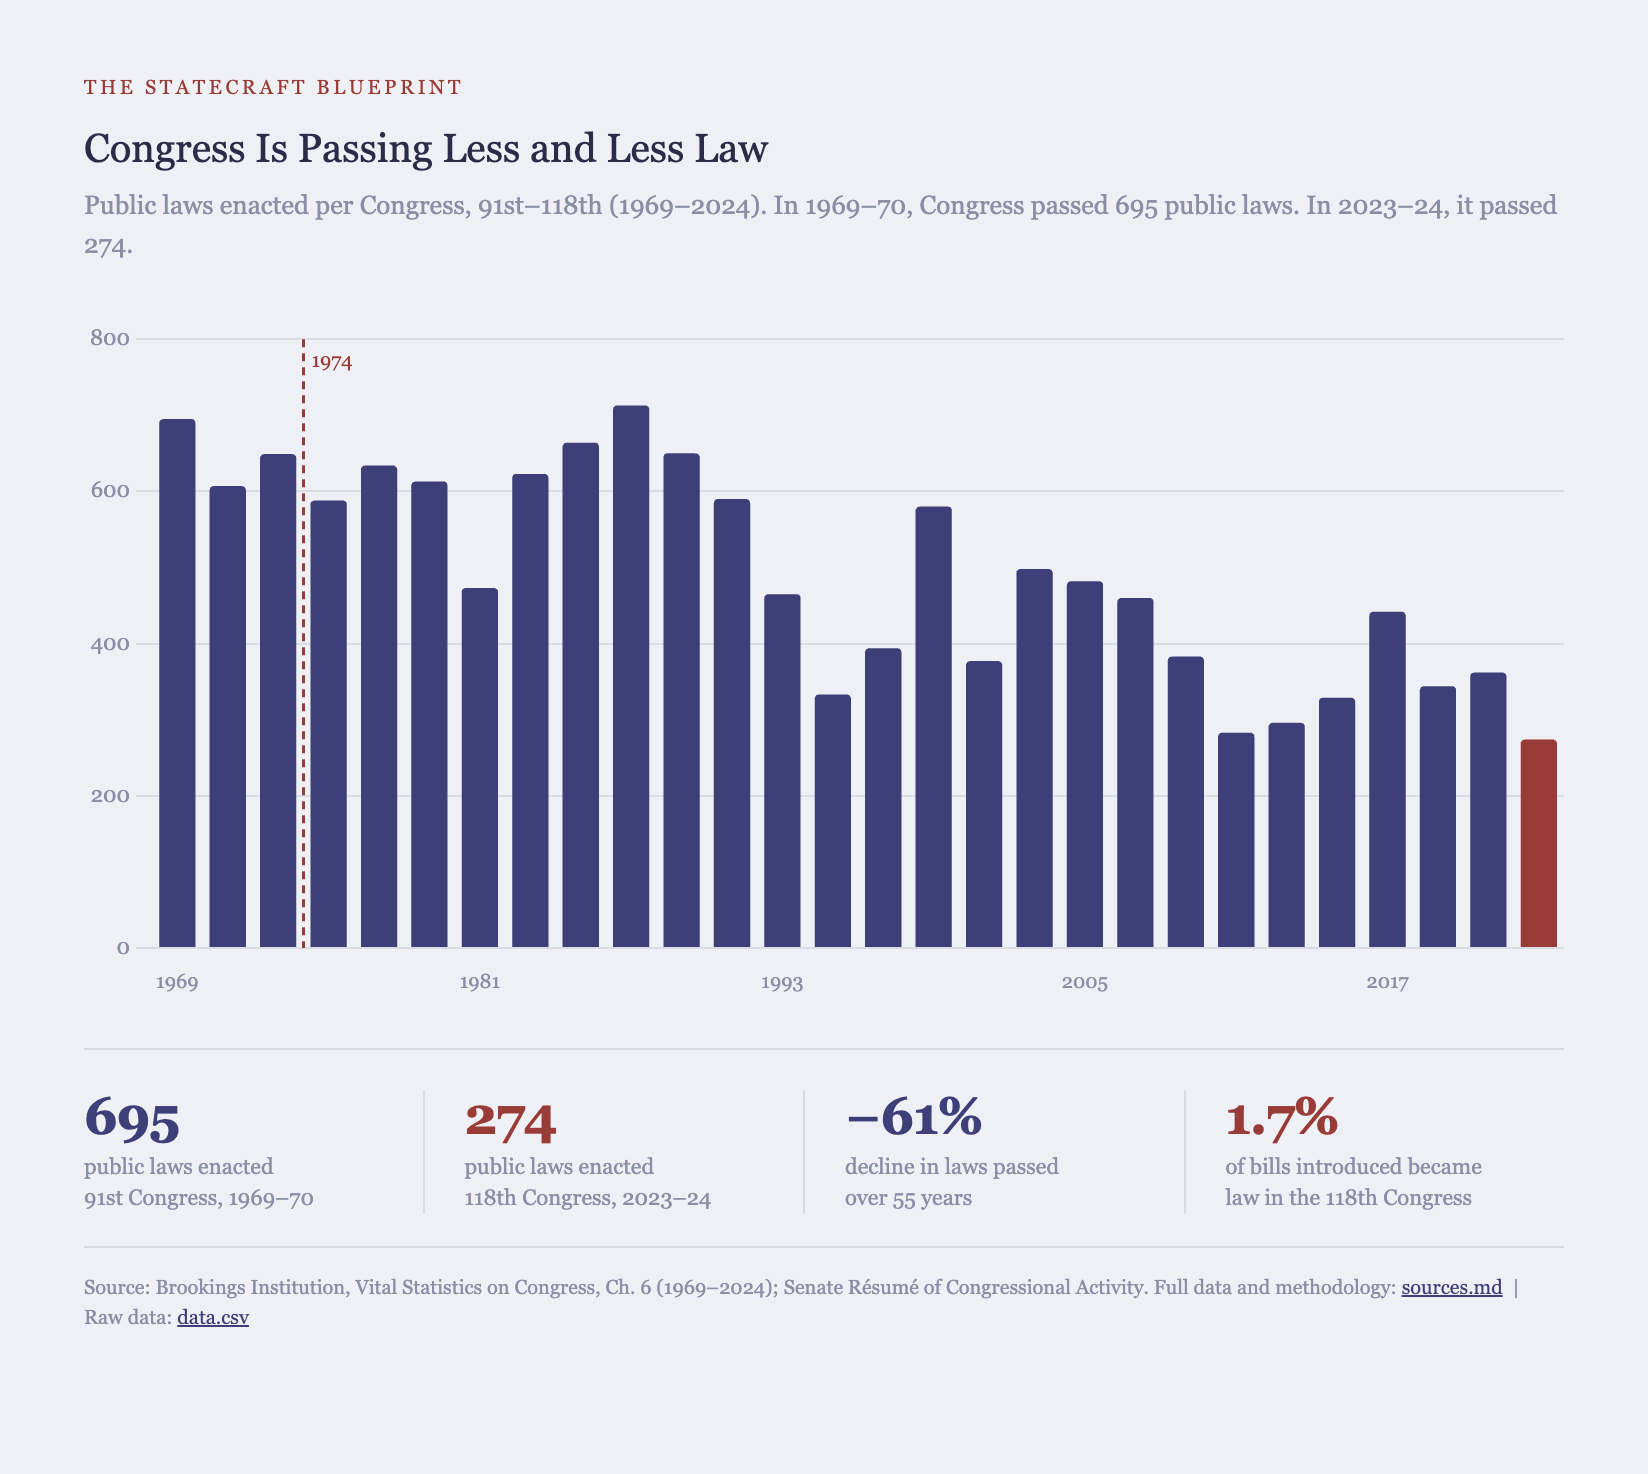
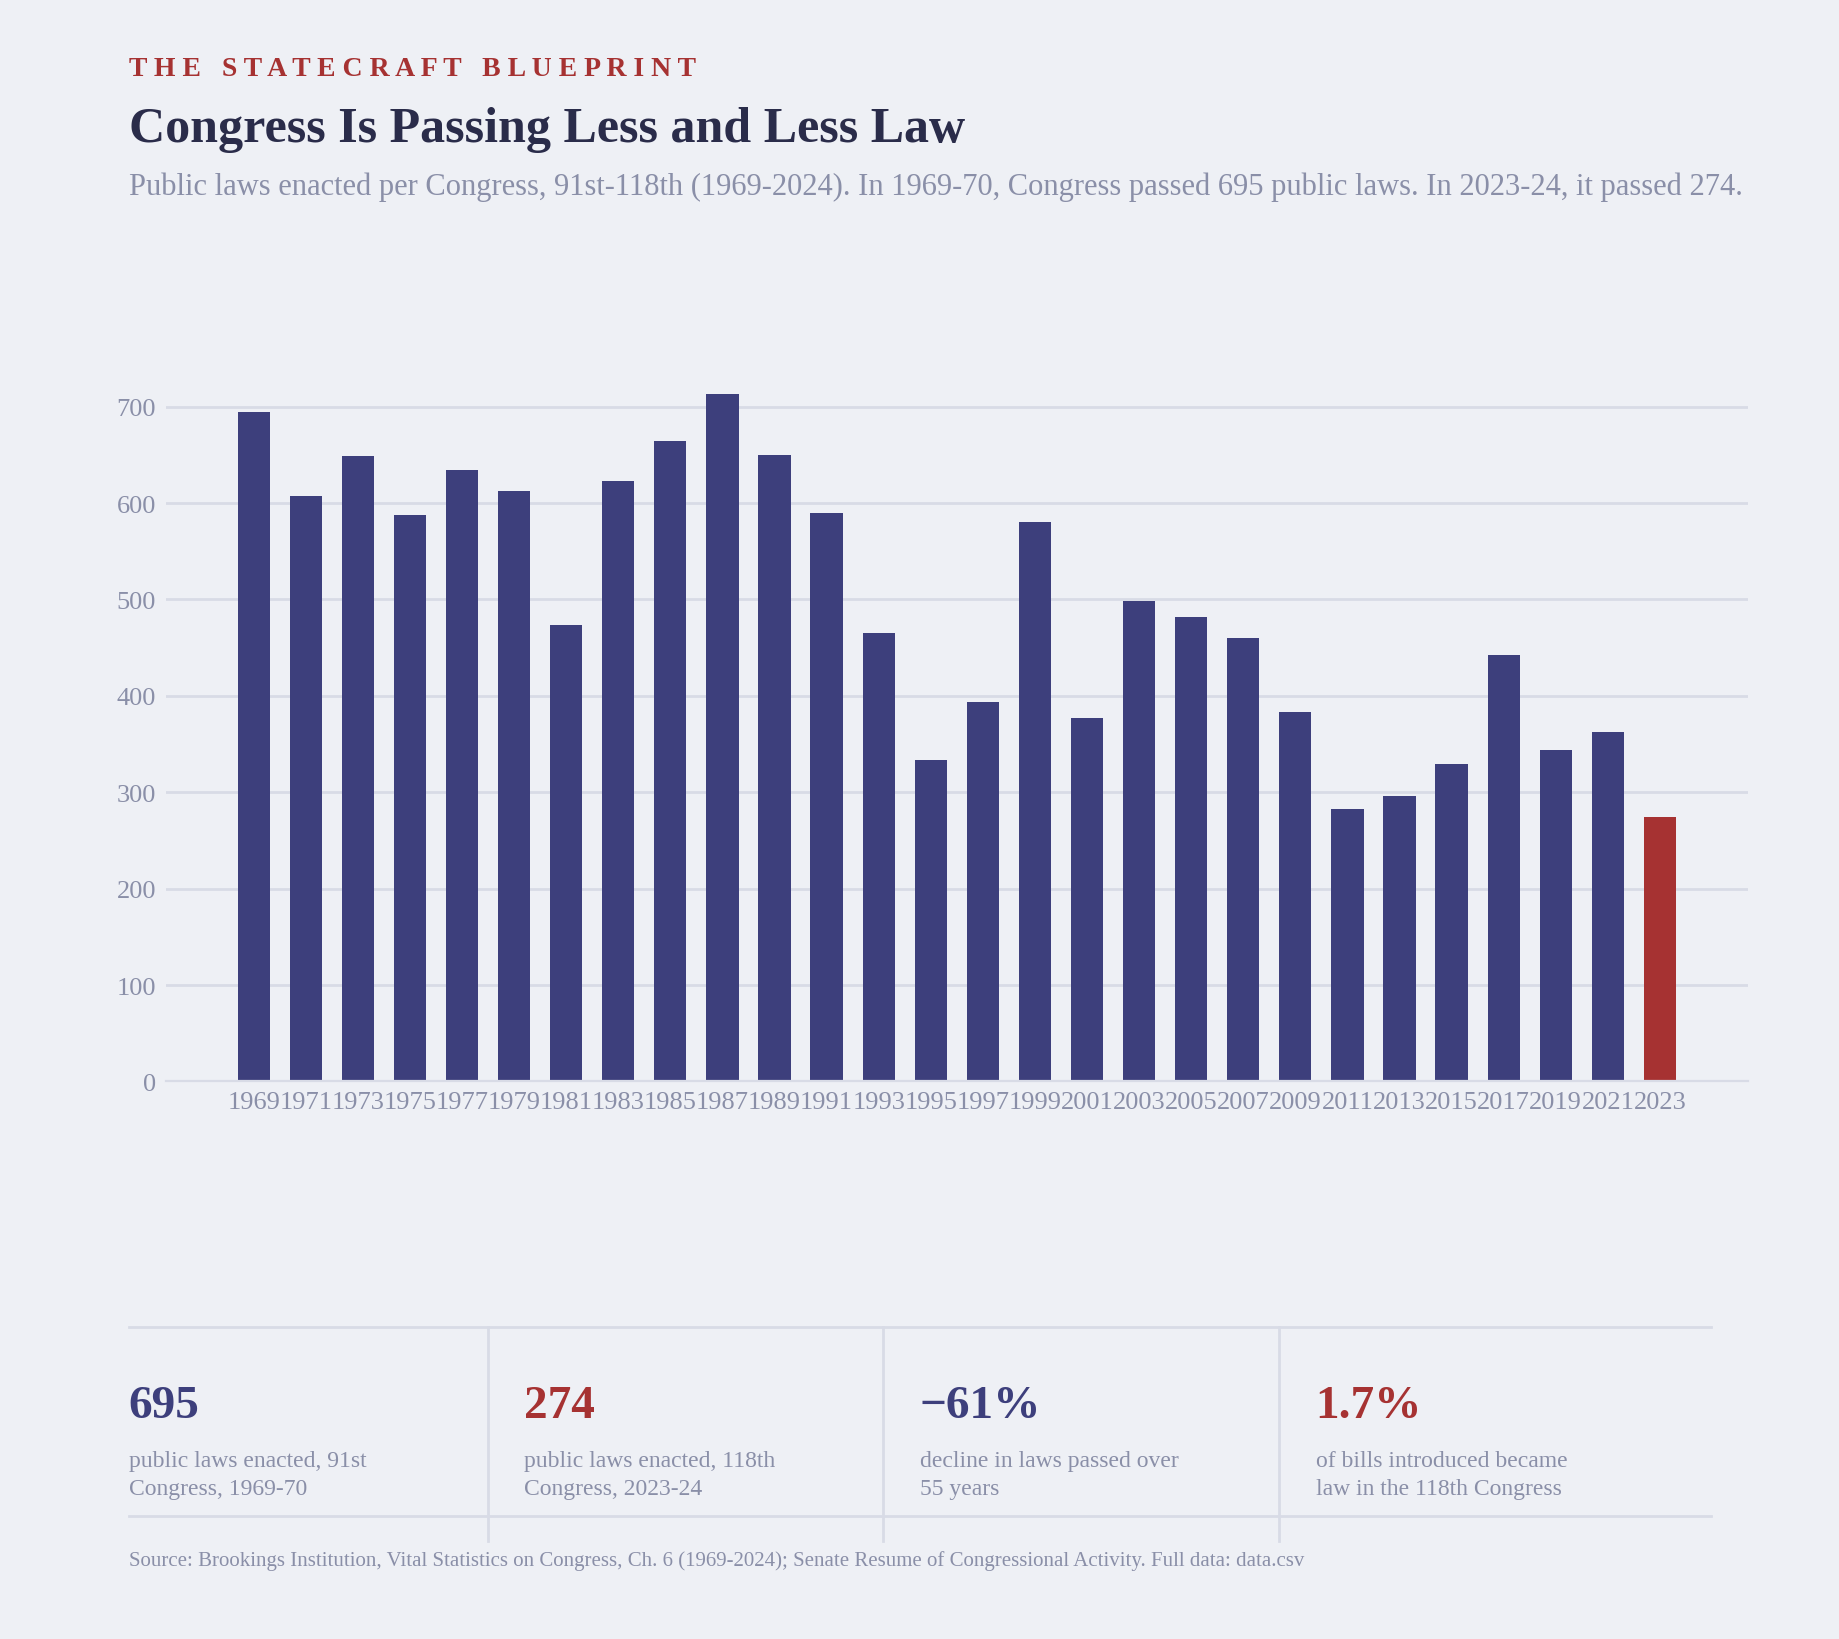
Remove 1970s reform markers from Ch2 observation charts
The 1974 reference-line marker was built for the earlier essay (#107,
"It Begins With Why?"), which had already named the FECA/transparency-
reform argument. Chapter 2 charts are pure observations and haven't made
that argument yet, so any surviving marker was visually importing a case
the chapter doesn't assert. Removed from:

- Legislation Decline (obs01-legislative-decline)
- Moderate Decline (obs05-moderate-decline) -- kept the unrelated 1994 marker
- Congressional Approval (approval-ratings) -- kept the unrelated 28% avg line

Government Shutdowns and Incumbency were checked and don't have this
marker (Shutdowns' data starts in 1976; Incumbency's 1974 label is a
wave-election data point, not an imported reference line). The
Convergence synthesis chart intentionally keeps its 1974 indexing --
that's the chart that actually makes the reform argument.

Also corrected party-line-voting's sources.md: the prior Corrections
entry framed the 1974 removal as chart-specific (a local dip in the
data). That's supporting color, not the real reason -- this is a
chapter-wide fix, same as the others above.

Regenerated chart.png for the three charts above to match.

diff --git a/book/obs01-legislative-decline/chart.html b/book/obs01-legislative-decline/chart.html
@@ -92,9 +92,6 @@
       383,283,296,329,442,344,362,274
     ];
 
-    // Index of 93rd Congress (1973-74) — where 1974 reforms land
-    const idx1974 = 2;
-
     const canvas = document.getElementById('chart');
     const ctx = canvas.getContext('2d');
 
@@ -165,34 +162,6 @@
             }
           }
         }
-      }
-    });
-
-    // Draw 1974 annotation manually after chart renders
-    // (chartjs-plugin-annotation not loaded; using afterRender hack)
-    Chart.register({
-      id: 'verticalLine1974',
-      afterDraw(chart) {
-        const { ctx, chartArea, scales } = chart;
-        // Find x position between index 2 (93rd) and 3 (94th)
-        const x0 = scales.x.getPixelForValue(2);
-        const x1 = scales.x.getPixelForValue(3);
-        const xMid = (x0 + x1) / 2;
-
-        ctx.save();
-        ctx.setLineDash([4, 3]);
-        ctx.strokeStyle = '#a63232';
-        ctx.lineWidth = 1.5;
-        ctx.beginPath();
-        ctx.moveTo(xMid, chartArea.top);
-        ctx.lineTo(xMid, chartArea.bottom);
-        ctx.stroke();
-
-        ctx.setLineDash([]);
-        ctx.fillStyle = '#a63232';
-        ctx.font = '10px Georgia, serif';
-        ctx.fillText('1974', xMid + 4, chartArea.top + 14);
-        ctx.restore();
       }
     });
   </script>

diff --git a/book/approval-ratings/chart.html b/book/approval-ratings/chart.html
@@ -138,28 +138,11 @@
     grad.addColorStop(0, 'rgba(61,63,124,0.12)');
     grad.addColorStop(1, 'rgba(61,63,124,0.01)');
 
-    // Manual annotation plugin
+    // Manual annotation plugin -- 28% long-run average reference line
     const annotations = {
       id: 'annotations',
       afterDraw(chart) {
         const { ctx, chartArea, scales } = chart;
-
-        // 1974 reference line
-        const x1974 = scales.x.getPixelForValue(0); // index 0 = 1974
-        ctx.save();
-        ctx.setLineDash([4, 3]);
-        ctx.strokeStyle = '#a63232';
-        ctx.lineWidth = 1.5;
-        ctx.beginPath();
-        ctx.moveTo(x1974, chartArea.top);
-        ctx.lineTo(x1974, chartArea.bottom);
-        ctx.stroke();
-        ctx.setLineDash([]);
-        ctx.fillStyle = '#a63232';
-        ctx.font = '9px Georgia, serif';
-        ctx.textAlign = 'left';
-        ctx.fillText('1974', x1974 + 3, chartArea.top + 12);
-        ctx.restore();
 
         // 28% average line
         const yAvg = scales.y.getPixelForValue(28);

diff --git a/book/obs05-moderate-decline/chart.html b/book/obs05-moderate-decline/chart.html
@@ -97,14 +97,13 @@
     grad.addColorStop(0, 'rgba(61,63,124,0.12)');
     grad.addColorStop(1, 'rgba(61,63,124,0.01)');
 
-    // Manual annotation plugin for 1974 and 1994 markers
+    // Manual annotation plugin for the 1994 marker
     const annotations = {
       id: 'annotations',
       afterDraw(chart) {
         const { ctx, chartArea, scales } = chart;
 
         const markers = [
-          { year: 1974, label: '1974' },
           { year: 1995, label: '1994' },
         ];
 

diff --git a/book/obs05-moderate-decline/sources.md b/book/obs05-moderate-decline/sources.md
@@ -43,8 +43,8 @@ The percentage of U.S. House members classified as "moderate" by DW-NOMINATE sco
   - Current trend: approximately 7% (Pew 2022 and subsequent research)
 - **What counts as "moderate":** |DW-NOMINATE dim1| < 0.25. This threshold was chosen by Voteview and is used consistently throughout the literature.
 - **Party coding:** Only Democrats (ICPSR 100) and Republicans (ICPSR 200) included. Independents, third-party members excluded.
-- **The 1974 inflection:** The chart shows the mid-1970s as the beginning of the accelerating decline. This aligns with the transparency reform sequence (1970-1974 LRA/FECA). Poole & Rosenthal note: "Polarization was then fairly stable until the late 1970s and has been increasing steadily."
-- **The 1994 acceleration:** The Republican Revolution (104th Congress) marks a visible acceleration in the decline of moderates, corresponding to the discharge petition transparency reform of 1993.
+- **The 1974 inflection (marker removed July 2026 — see Corrections):** The chart previously drew a reference line at 1974, marking the mid-1970s as the beginning of the accelerating decline and tying it to the transparency reform sequence (1970-1974 LRA/FECA) — the argument made explicitly in the Convergence synthesis chart (`book/convergence`), not yet in this Chapter 2 observation chart. The line was removed for that reason; the research observation itself is still valid and worth keeping here: Poole & Rosenthal note "Polarization was then fairly stable until the late 1970s and has been increasing steadily," which is consistent with the mid-1970s inflection visible in the data even without a drawn marker.
+- **The 1994 acceleration:** The Republican Revolution (104th Congress) marks a visible acceleration in the decline of moderates, corresponding to the discharge petition transparency reform of 1993. (This marker is unaffected by the 1974 removal — it isn't part of the 1970s reform sequence in question.)
 
 ---
 
@@ -57,10 +57,19 @@ The percentage of U.S. House members classified as "moderate" by DW-NOMINATE sco
 
 ---
 
+## Corrections
+
+| Date | Change |
+|------|--------|
+| 2026-07-17 | Removed the 1974 reference-line annotation from the chart (the 1994 marker is unaffected and remains). It was built for the earlier essay (#107, "It Begins With Why?"), which had already named the FECA/transparency-reform argument; this chart now supports Chapter 2 (observation), which hasn't made that argument yet, so the marker was visually importing an unmade case. Same fix already applied to the Gridlock (`obs01-unresolved-agenda`), Party-Line Voting (`obs04-party-line-voting`), Legislation Decline (`obs01-legislative-decline`), and Congressional Approval (`approval-ratings`) charts, for the same reason. The Convergence synthesis chart intentionally keeps its 1974 indexing, since that chart is where the reform argument is actually made. |
+
+---
+
 ## Version History
 
 | Date | Change | Author |
 |------|--------|--------|
 | May 2026 | Initial publication | TSB |
+| July 2026 | Removed chart-specific 1974 marker; kept the 1994 marker (full detail in Corrections above) | TSB |
 
 *If you believe a data point is incorrect, please open an issue at https://github.com/The-Statecraft-Blueprint/tsb-assets or contact us at statecraftblueprint.org.*

diff --git a/book/approval-ratings/sources.md b/book/approval-ratings/sources.md
@@ -52,10 +52,18 @@ The chart shows the percentage of Americans who approve of "the way Congress is 
 ## Methodology Notes
 
 - **Annual averages vs. point readings:** Where Gallup publishes annual averages, those are used. For some years only individual poll readings are available; these are noted in data.csv.
-- **The 1974 start date:** Gallup began tracking congressional approval in 1974 — the same year the FECA Amendments completed the 1970–1974 transparency reform sequence. This is not a coincidence the essay argues; it is the structural argument.
+- **The 1974 start date:** Gallup began tracking congressional approval in 1974 — the same year the FECA Amendments completed the 1970–1974 transparency reform sequence. That timing connection is the argument made explicitly in the Convergence synthesis chart (`book/convergence`), not in this Chapter 2 observation chart — the chart's 1974 reference-line marker was removed for that reason (July 2026 — see Corrections). On this series 1974 is also simply the first year Gallup data exists, so the coincidence isn't visually distinguishable from an ordinary series start.
 - **The 9/11 spike:** The October 2001 reading of 84% is a genuine outlier driven by national crisis unity. The annual average for 2001 was approximately 56%. Both are noted in data.csv.
 - **Event-driven fluctuations:** Approval spikes when a new party takes control of Congress (honeymoon effect) and drops sharply during shutdowns, scandals, and economic crises. These fluctuations are real but temporary — the long-run trend is what matters.
 - **The 28% average:** Gallup's own summary: approval has averaged 28% since 1974, with 65% average disapproval. This is the number to cite in the essay.
+
+---
+
+## Corrections
+
+| Date | Change |
+|------|--------|
+| 2026-07-17 | Removed the 1974 reference-line annotation from the chart (the 28% long-run-average reference line is unaffected and remains). It was built for the earlier essay (#107, "It Begins With Why?"), which had already named the FECA/transparency-reform argument; this chart now supports Chapter 2 (observation), which hasn't made that argument yet, so the marker was visually importing an unmade case. Same fix already applied to the Gridlock (`obs01-unresolved-agenda`), Party-Line Voting (`obs04-party-line-voting`), Legislation Decline (`obs01-legislative-decline`), and Moderate Decline (`obs05-moderate-decline`) charts, for the same reason. The Convergence synthesis chart intentionally keeps its 1974 indexing, since that chart is where the reform argument is actually made. |
 
 ---
 
@@ -64,5 +72,6 @@ The chart shows the percentage of Americans who approve of "the way Congress is 
 | Date | Change | Author |
 |------|--------|--------|
 | May 2026 | Initial publication | TSB |
+| July 2026 | Removed chart-specific 1974 marker; kept the 28% average reference line (full detail in Corrections above) | TSB |
 
 *If you believe a data point is incorrect, please open an issue at https://github.com/The-Statecraft-Blueprint/tsb-assets or contact us at statecraftblueprint.org.*

diff --git a/book/obs01-legislative-decline/sources.md b/book/obs01-legislative-decline/sources.md
@@ -34,7 +34,7 @@ The chart shows the raw count of public laws per two-year Congress, not the enac
 - **Unit of measurement:** Each data point represents one two-year Congress (e.g., the 91st Congress covers 1969–1970).
 - **Public laws only:** Private laws are excluded throughout for consistency.
 - **The omnibus caveat:** The raw count decline is partially explained by legislative consolidation — Congress has increasingly packaged multiple policy items into large omnibus bills rather than passing individual standalone legislation. This means the raw count decline somewhat overstates the decline in legislative activity. However, this caveat does not invalidate the trend; it reframes it. Average pages per statute rose from approximately 2.5 pages (80th Congress, 1947–48) to nearly 20 pages (111th Congress, 2009–10), meaning legislation became simultaneously rarer and more incomprehensible. The omnibus shift is itself evidence of dysfunction, not evidence of efficiency.
-- **The 1974 reference line:** Marks the completion of the 1970–1974 transparency reform sequence. Not a data point — an editorial annotation marking the structural inflection point argued in the essay.
+- **The 1974 reference line has been removed (July 2026 — see Corrections).** It was originally built to mark the completion of the 1970–1974 transparency reform sequence — the "coercion loop" argument made explicitly in the Convergence synthesis chart (`book/convergence`). This chart now serves Chapter 2 as a plain observation (raw law count decline), and Chapter 2 has not yet named that reform argument, so the marker was visually importing a case this chart doesn't make on its own. The underlying research connection is still real and still lives in the Convergence chart's sources.md.
 
 ---
 
@@ -46,10 +46,19 @@ The chart shows the raw count of public laws per two-year Congress, not the enac
 
 ---
 
+## Corrections
+
+| Date | Change |
+|------|--------|
+| 2026-07-17 | Removed the 1974 reference-line annotation from the chart. It was built for the earlier essay (#107, "It Begins With Why?"), which had already named the FECA/transparency-reform argument; this chart now supports Chapter 2 (observation), which hasn't made that argument yet, so the marker was visually importing an unmade case. Same fix already applied to the Gridlock (`obs01-unresolved-agenda`), Party-Line Voting (`obs04-party-line-voting`), and Moderate Decline (`obs05-moderate-decline`) charts, and to the Congressional Approval chart (`approval-ratings`), for the same reason. The Convergence synthesis chart intentionally keeps its 1974 indexing, since that chart is where the reform argument is actually made. |
+
+---
+
 ## Version History
 
 | Date | Change | Author |
 |------|--------|--------|
 | May 2026 | Initial publication | TSB |
+| July 2026 | Removed chart-specific 1974 marker (full detail in Corrections above) | TSB |
 
 *If you believe a data point is incorrect, please open an issue at https://github.com/The-Statecraft-Blueprint/tsb-assets or contact us at statecraftblueprint.org. We will review, correct if warranted, and document the change in this version history.*

diff --git a/book/obs04-party-line-voting/sources.md b/book/obs04-party-line-voting/sources.md
@@ -46,7 +46,7 @@ The chart displays metric 1 only (house party-unity votes %) as the primary visu
 - **The 2025 data point** is sourced from CQ Roll Call's report covering that year, which noted it as the highest level in the history of their study. This figure covers both chambers combined.
 - **Trend line:** the chart's oxblood line is a 5-year centered moving average of the House party-unity-votes series (`house_trend_5yr_centered` in data.csv), with a shortened window at the series' endpoints (1969, 2025). It is computed from, but not a substitute for, the raw annual series, which remains the primary line on the chart. The moving average bridges the 2023 data gap using the surrounding years. This mirrors the convention used on the companion Legislative Gridlock chart (`book/obs01-unresolved-agenda`).
 - **Genuine data gap — 2023:** No source (Brookings, CQ Roll Call, or Voteview) publishes a House party-unity-votes percentage for 2023; CQ Roll Call's 2023 study year did not break out this particular figure. This is a real gap, not an oversight — data.csv leaves the 2023 house_party_unity_votes_pct cell blank, and the chart shows a visible break in the raw (navy) line at 2023 rather than silently connecting 2022 to 2024 as if no year were missing. (The Senate party-unity-votes figure for 2023, 81.0%, is available and included in data.csv, since it comes from a different part of the same underlying CQ study.)
-- **The 1974 reference line has been removed from this chart** (as of July 2026 — see Corrections). It remains in place on other Ch. 2 charts (e.g. Government Shutdowns, Legislative Gridlock) where the FECA Amendments' effective date does align with a turning point in the data. On this chart, 1974 falls in a local dip (29.4%, lower than both 1971 and 1973) and does not correspond to any visible turning point in the House party-line-voting series, so the marker was removed here specifically rather than left as a misleading annotation.
+- **The 1974 reference line has been removed from this chart** (as of July 2026 — see Corrections). The marker was built for the earlier essay (#107, "It Begins With Why?"), which had already named the FECA/transparency-reform argument; this chart now supports Chapter 2 (observation), which hasn't made that argument yet, so the marker was visually importing a case this chapter doesn't assert. This is a chapter-wide fix, not specific to this chart — the same marker was stripped from every other Ch. 2 observation chart that had one (Gridlock, Legislation Decline, Moderate Decline, Congressional Approval). The Convergence synthesis chart intentionally keeps its 1974 indexing, since that chart is where the reform argument is actually made. (Secondary, chart-specific note: on this series 1974 also sits in a local dip — 29.4%, lower than both 1971 and 1973 — so the line wouldn't have lined up with anything visible here even if kept. That's supporting color, not the main reason.)
 
 ---
 
@@ -62,7 +62,7 @@ The chart displays metric 1 only (house party-unity votes %) as the primary visu
 
 | Date | Change |
 |------|--------|
-| 2026-07-17 | (1) Removed the 1974 reference-line marker from this chart only — 1974 sits in a local dip (29.4%) here, not a turning point, so the marker didn't correspond to anything visible in this series; left in place on other Ch. 2 charts where it does align with the data. (2) Added a 5-year centered moving-average trend line (oxblood) alongside the raw jagged series (navy, unchanged) to make the underlying direction legible given genuine year-to-year swings of 15-35 points; added `house_trend_5yr_centered` to data.csv. (3) Added the 2024 House party-unity-votes data point (65.3%, already present in data.csv and sourced from the CQ Roll Call 2024 study cited above) to the plotted series — it had been omitted, leaving the chart jumping straight from 2022 to 2025. (4) Corrected the "avg. member unity score in 1970" callout from 74% to 72%: the 74% figure had actually been computed from 1971's House dem/gop scores (72, 76) rather than 1970's (71, 72, average 71.5% → 72%). (5) Documented 2023 explicitly as a genuine House party-unity-votes data gap (no source publishes this figure for that year) rather than leaving it silently absent; the chart now shows a visible break in the raw line at 2023, bridged by the trend line. |
+| 2026-07-17 | (1) Removed the 1974 reference-line marker. It was built for the earlier essay (#107) which had already named the FECA/transparency-reform argument; this chart now supports Chapter 2 (observation), which hasn't made that argument yet, so any surviving marker visually imported an unmade case. This is a chapter-wide correction — the same marker was also removed from the Legislation Decline, Moderate Decline, and Congressional Approval charts (Gridlock already had it removed previously). Secondary/supporting note: on this data 1974 also sits in a local dip (29.4%, lower than 1971 and 1973), so it wouldn't have lined up with anything visible here regardless. (2) Added a 5-year centered moving-average trend line (oxblood) alongside the raw jagged series (navy, unchanged) to make the underlying direction legible given genuine year-to-year swings of 15-35 points; added `house_trend_5yr_centered` to data.csv. (3) Added the 2024 House party-unity-votes data point (65.3%, already present in data.csv and sourced from the CQ Roll Call 2024 study cited above) to the plotted series — it had been omitted, leaving the chart jumping straight from 2022 to 2025. (4) Corrected the "avg. member unity score in 1970" callout from 74% to 72%: the 74% figure had actually been computed from 1971's House dem/gop scores (72, 76) rather than 1970's (71, 72, average 71.5% → 72%). (5) Documented 2023 explicitly as a genuine House party-unity-votes data gap (no source publishes this figure for that year) rather than leaving it silently absent; the chart now shows a visible break in the raw line at 2023, bridged by the trend line. |
 
 ---
 